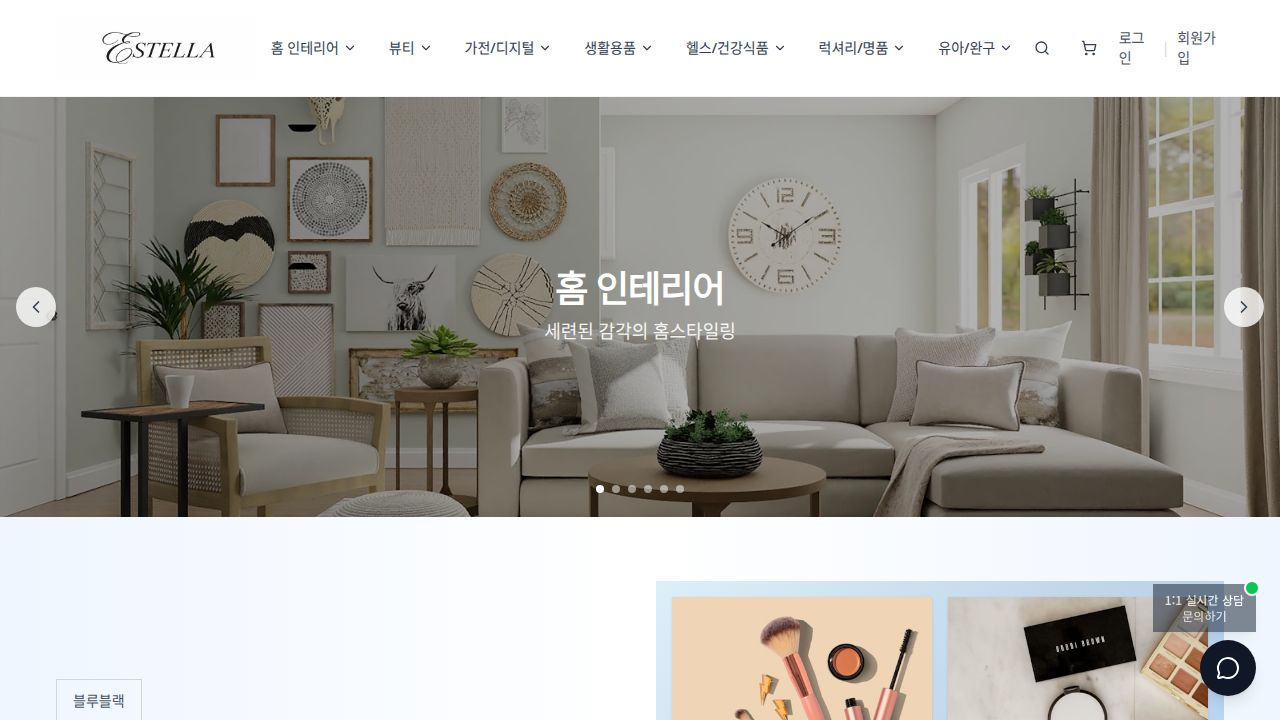
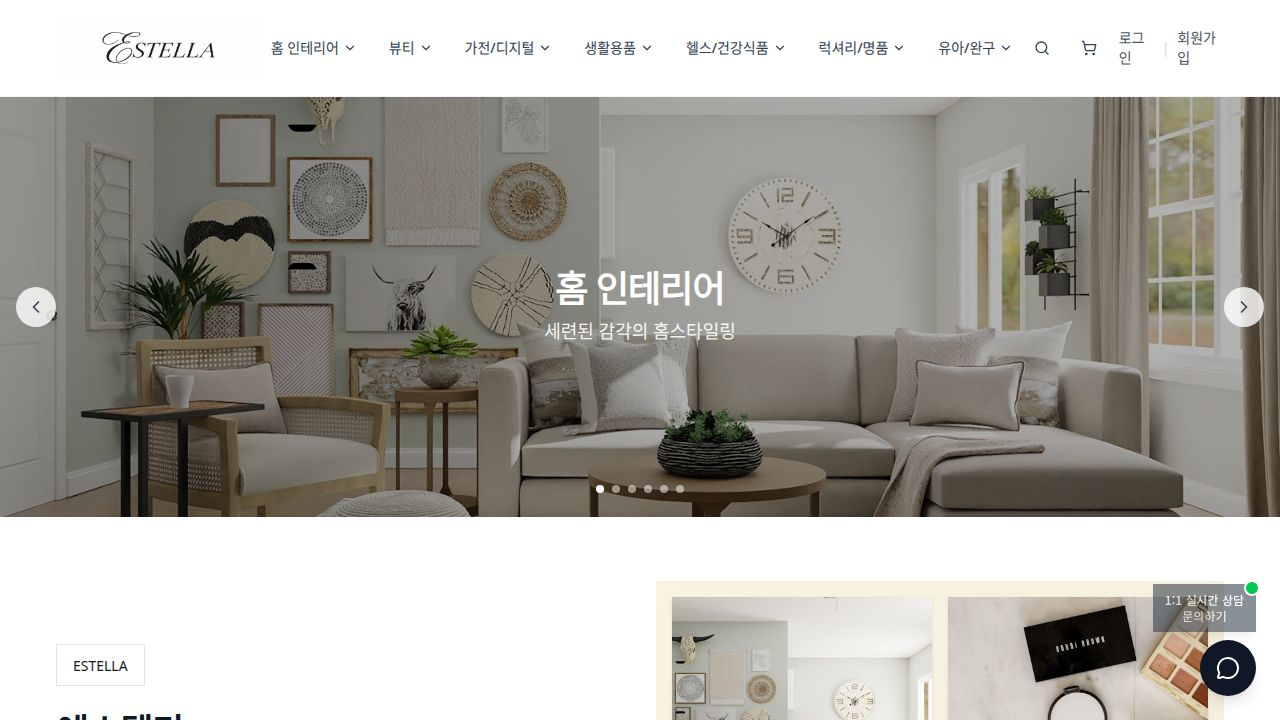
Update website branding and product imagery to reflect Estella
Updates the brand name from "블루블랙" to "ESTELLA" and refreshes product images and descriptions within the Home page's brand section.

Replit-Commit-Author: Agent
Replit-Commit-Session-Id: 337bff7e-522e-4724-8296-76832bff74b9
Replit-Commit-Checkpoint-Type: full_checkpoint
Replit-Commit-Event-Id: ffedca6b-e53b-4c3b-92f4-5787dac82680
Replit-Commit-Screenshot-Url: https://storage.googleapis.com/screenshot-production-us-central1/21bf0bfb-32a1-4580-afd2-f0c5e86b27e5/337bff7e-522e-4724-8296-76832bff74b9/gJ7TCuV

Changed region(s): [[0.5, 0.7944, 0.9688, 1.0], [0.0312, 0.9167, 0.1562, 1.0], [0.9375, 0.9472, 0.9688, 1.0]]

diff --git a/client/src/pages/Home.tsx b/client/src/pages/Home.tsx
@@ -10,23 +10,27 @@ import type { Review } from "@shared/schema";
 
 function BrandSection() {
   return (
-    <section className="py-12 sm:py-16 bg-gradient-to-r from-blue-50 via-white to-blue-50">
+    <section className="py-12 sm:py-16 bg-gradient-to-r from-gold-50 via-white to-gold-50">
       <div className="container-custom">
         <div className="grid grid-cols-1 lg:grid-cols-2 gap-8 items-center">
           <div className="space-y-6">
-            <div className="inline-block border border-gray-300 px-4 py-2">
-              <span className="text-sm text-gray-600">블루블랙</span>
+            <div className="inline-block border border-gold-400 px-4 py-2 bg-gold-50">
+              <span className="text-sm text-gold-700">ESTELLA</span>
             </div>
             <h2 
               className="text-3xl sm:text-4xl font-bold text-gray-900"
               style={{ fontFamily: "'Playfair Display', serif" }}
             >
-              블루블랙
+              에스텔라
             </h2>
+            <p className="text-gray-600 text-sm leading-relaxed">
+              프리미엄 라이프스타일을 위한 엄선된 상품들을 만나보세요.
+              홈 인테리어부터 뷰티, 럭셔리까지 당신의 일상을 특별하게 합니다.
+            </p>
             <Link href="/products">
               <Button 
                 variant="outline" 
-                className="rounded-full px-6 border-gray-900 text-gray-900 hover:bg-gray-900 hover:text-white"
+                className="rounded-full px-6 border-gold-600 text-gold-700 hover:bg-gold-600 hover:text-white"
                 data-testid="button-view-more"
               >
                 자세히보기
@@ -38,24 +42,23 @@ function BrandSection() {
             <div 
               className="absolute inset-0 rounded-lg"
               style={{
-                background: "linear-gradient(135deg, #87CEEB 0%, #4682B4 50%, #1E90FF 100%)",
-                opacity: 0.3
+                background: "linear-gradient(135deg, #D4AF37 0%, #C5A028 50%, #B8860B 100%)",
+                opacity: 0.15
               }}
             />
             <div className="relative grid grid-cols-2 gap-4 p-4">
               <div className="bg-white rounded-lg overflow-hidden shadow-sm">
                 <div className="aspect-square bg-gray-100">
                   <img 
-                    src="https://images.unsplash.com/photo-1596462502278-27bfdc403348?w=400&h=400&fit=crop" 
-                    alt="Beauty product" 
+                    src="https://images.unsplash.com/photo-1616486338812-3dadae4b4ace?w=400&h=400&fit=crop" 
+                    alt="홈 인테리어" 
                     className="w-full h-full object-cover"
                   />
                 </div>
                 <div className="p-3">
-                  <p className="text-xs text-gray-600 line-clamp-2">아네트 레비쉬 미라클 듀얼 세럼 13g</p>
+                  <p className="text-xs text-gray-600 line-clamp-2">프리미엄 홈 인테리어 컬렉션</p>
                   <div className="mt-2">
-                    <span className="text-xs text-gray-400 line-through">34,000원</span>
-                    <span className="text-sm font-bold text-gray-900 ml-2">28,900원</span>
+                    <span className="text-sm font-bold text-gold-700">홈 인테리어</span>
                   </div>
                 </div>
               </div>
@@ -64,15 +67,14 @@ function BrandSection() {
                 <div className="aspect-square bg-gray-100">
                   <img 
                     src="https://images.unsplash.com/photo-1522335789203-aabd1fc54bc9?w=400&h=400&fit=crop" 
-                    alt="Beauty product" 
+                    alt="뷰티" 
                     className="w-full h-full object-cover"
                   />
                 </div>
                 <div className="p-3">
-                  <p className="text-xs text-gray-600 line-clamp-2">오아드 포어 퍼펙팅 미라클 쿠션 2 colors</p>
+                  <p className="text-xs text-gray-600 line-clamp-2">럭셔리 뷰티 & 스킨케어</p>
                   <div className="mt-2">
-                    <span className="text-xs text-gray-400 line-through">45,000원</span>
-                    <span className="text-sm font-bold text-gray-900 ml-2">39,000원</span>
+                    <span className="text-sm font-bold text-gold-700">뷰티</span>
                   </div>
                 </div>
               </div>
